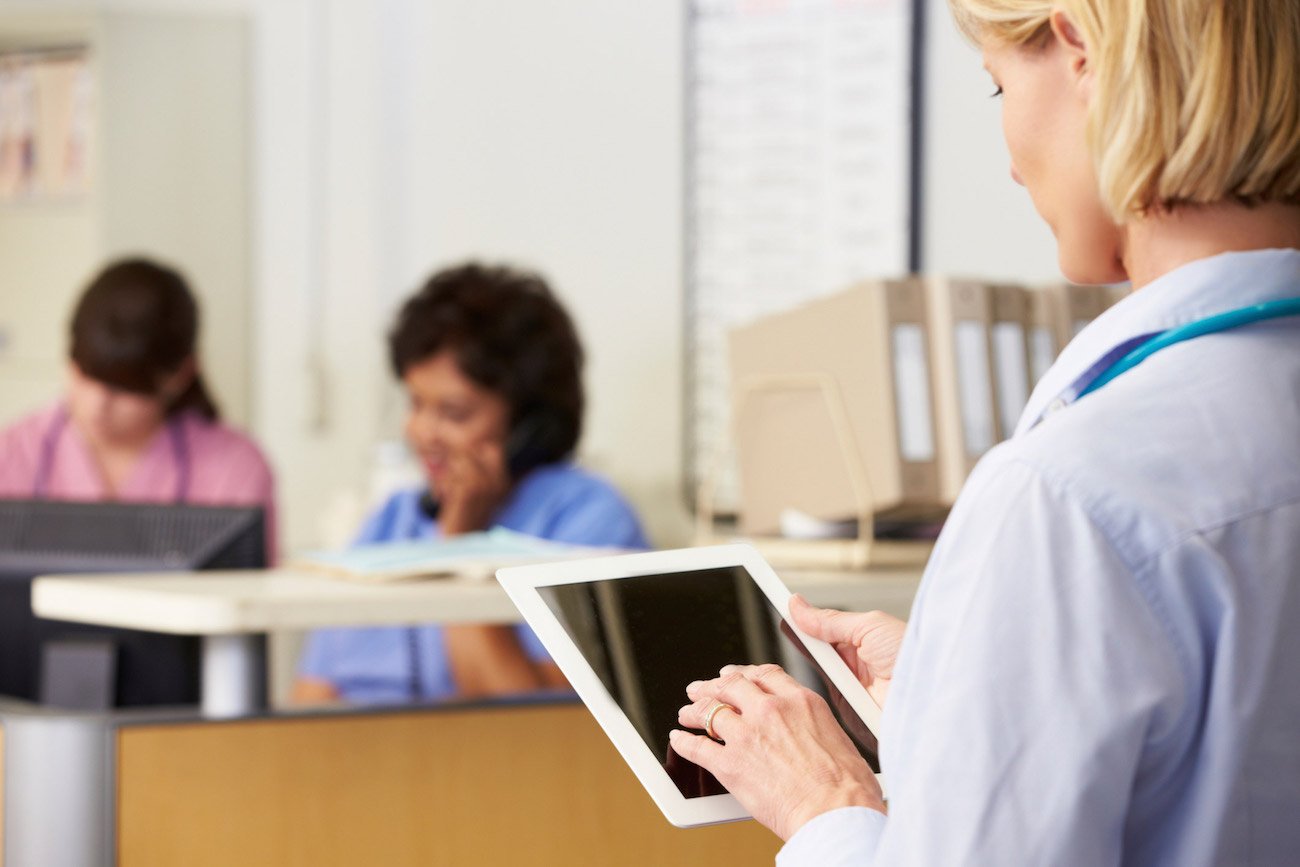
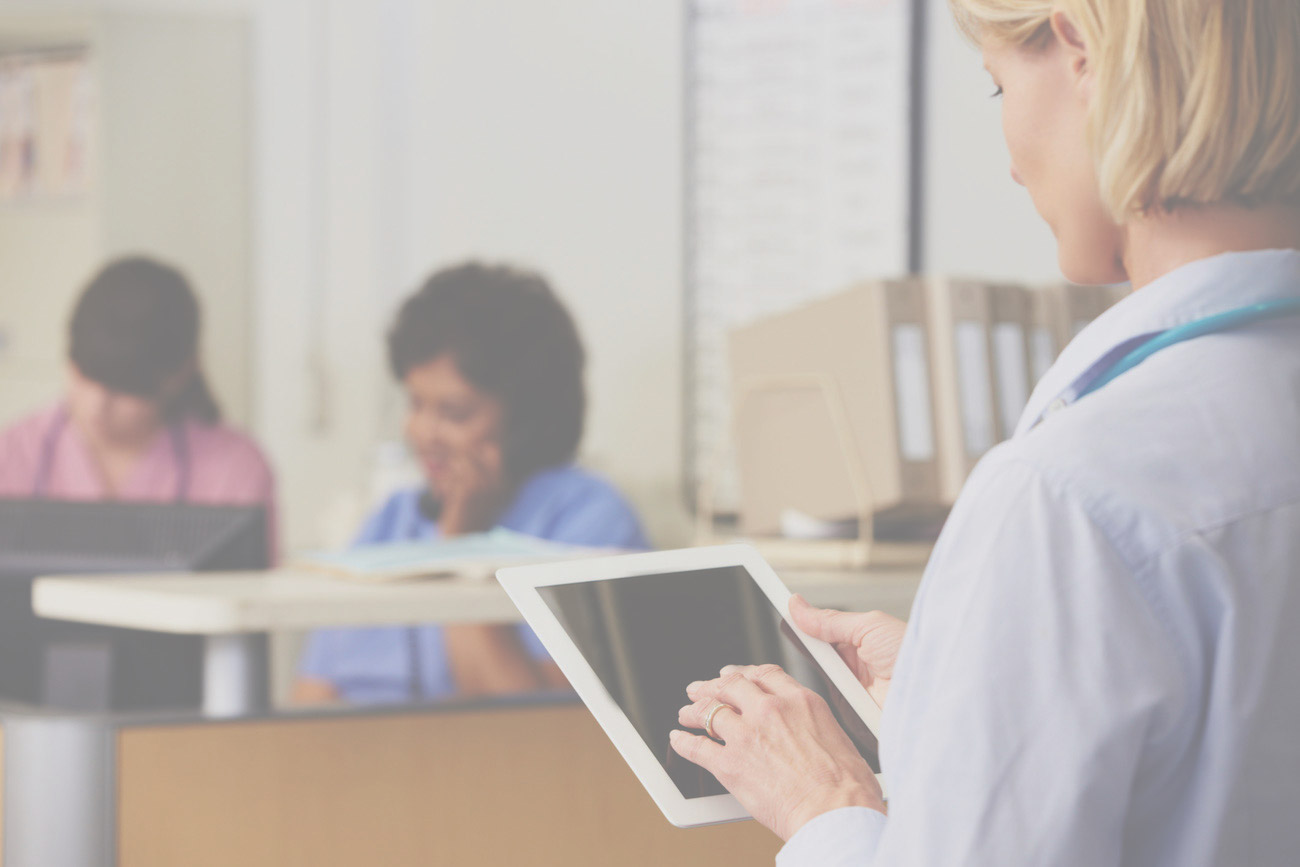
background image resolved

diff --git a/app/assets/stylesheets/sessions.scss b/app/assets/stylesheets/sessions.scss
@@ -1,3 +1,6 @@
 // Place all the styles related to the sessions controller here.
 // They will automatically be included in application.css.
 // You can use Sass (SCSS) here: http://sass-lang.com/
+body.session {
+  background-image: url("dr");
+}

diff --git a/app/assets/stylesheets/application.scss b/app/assets/stylesheets/application.scss
@@ -20,8 +20,6 @@
 
 body {
   background-color: #e0f7fa;
-  background-image: url("dr");
-  opacity: 0.2;
   // background-color: #e1f5fe;
 }
 
